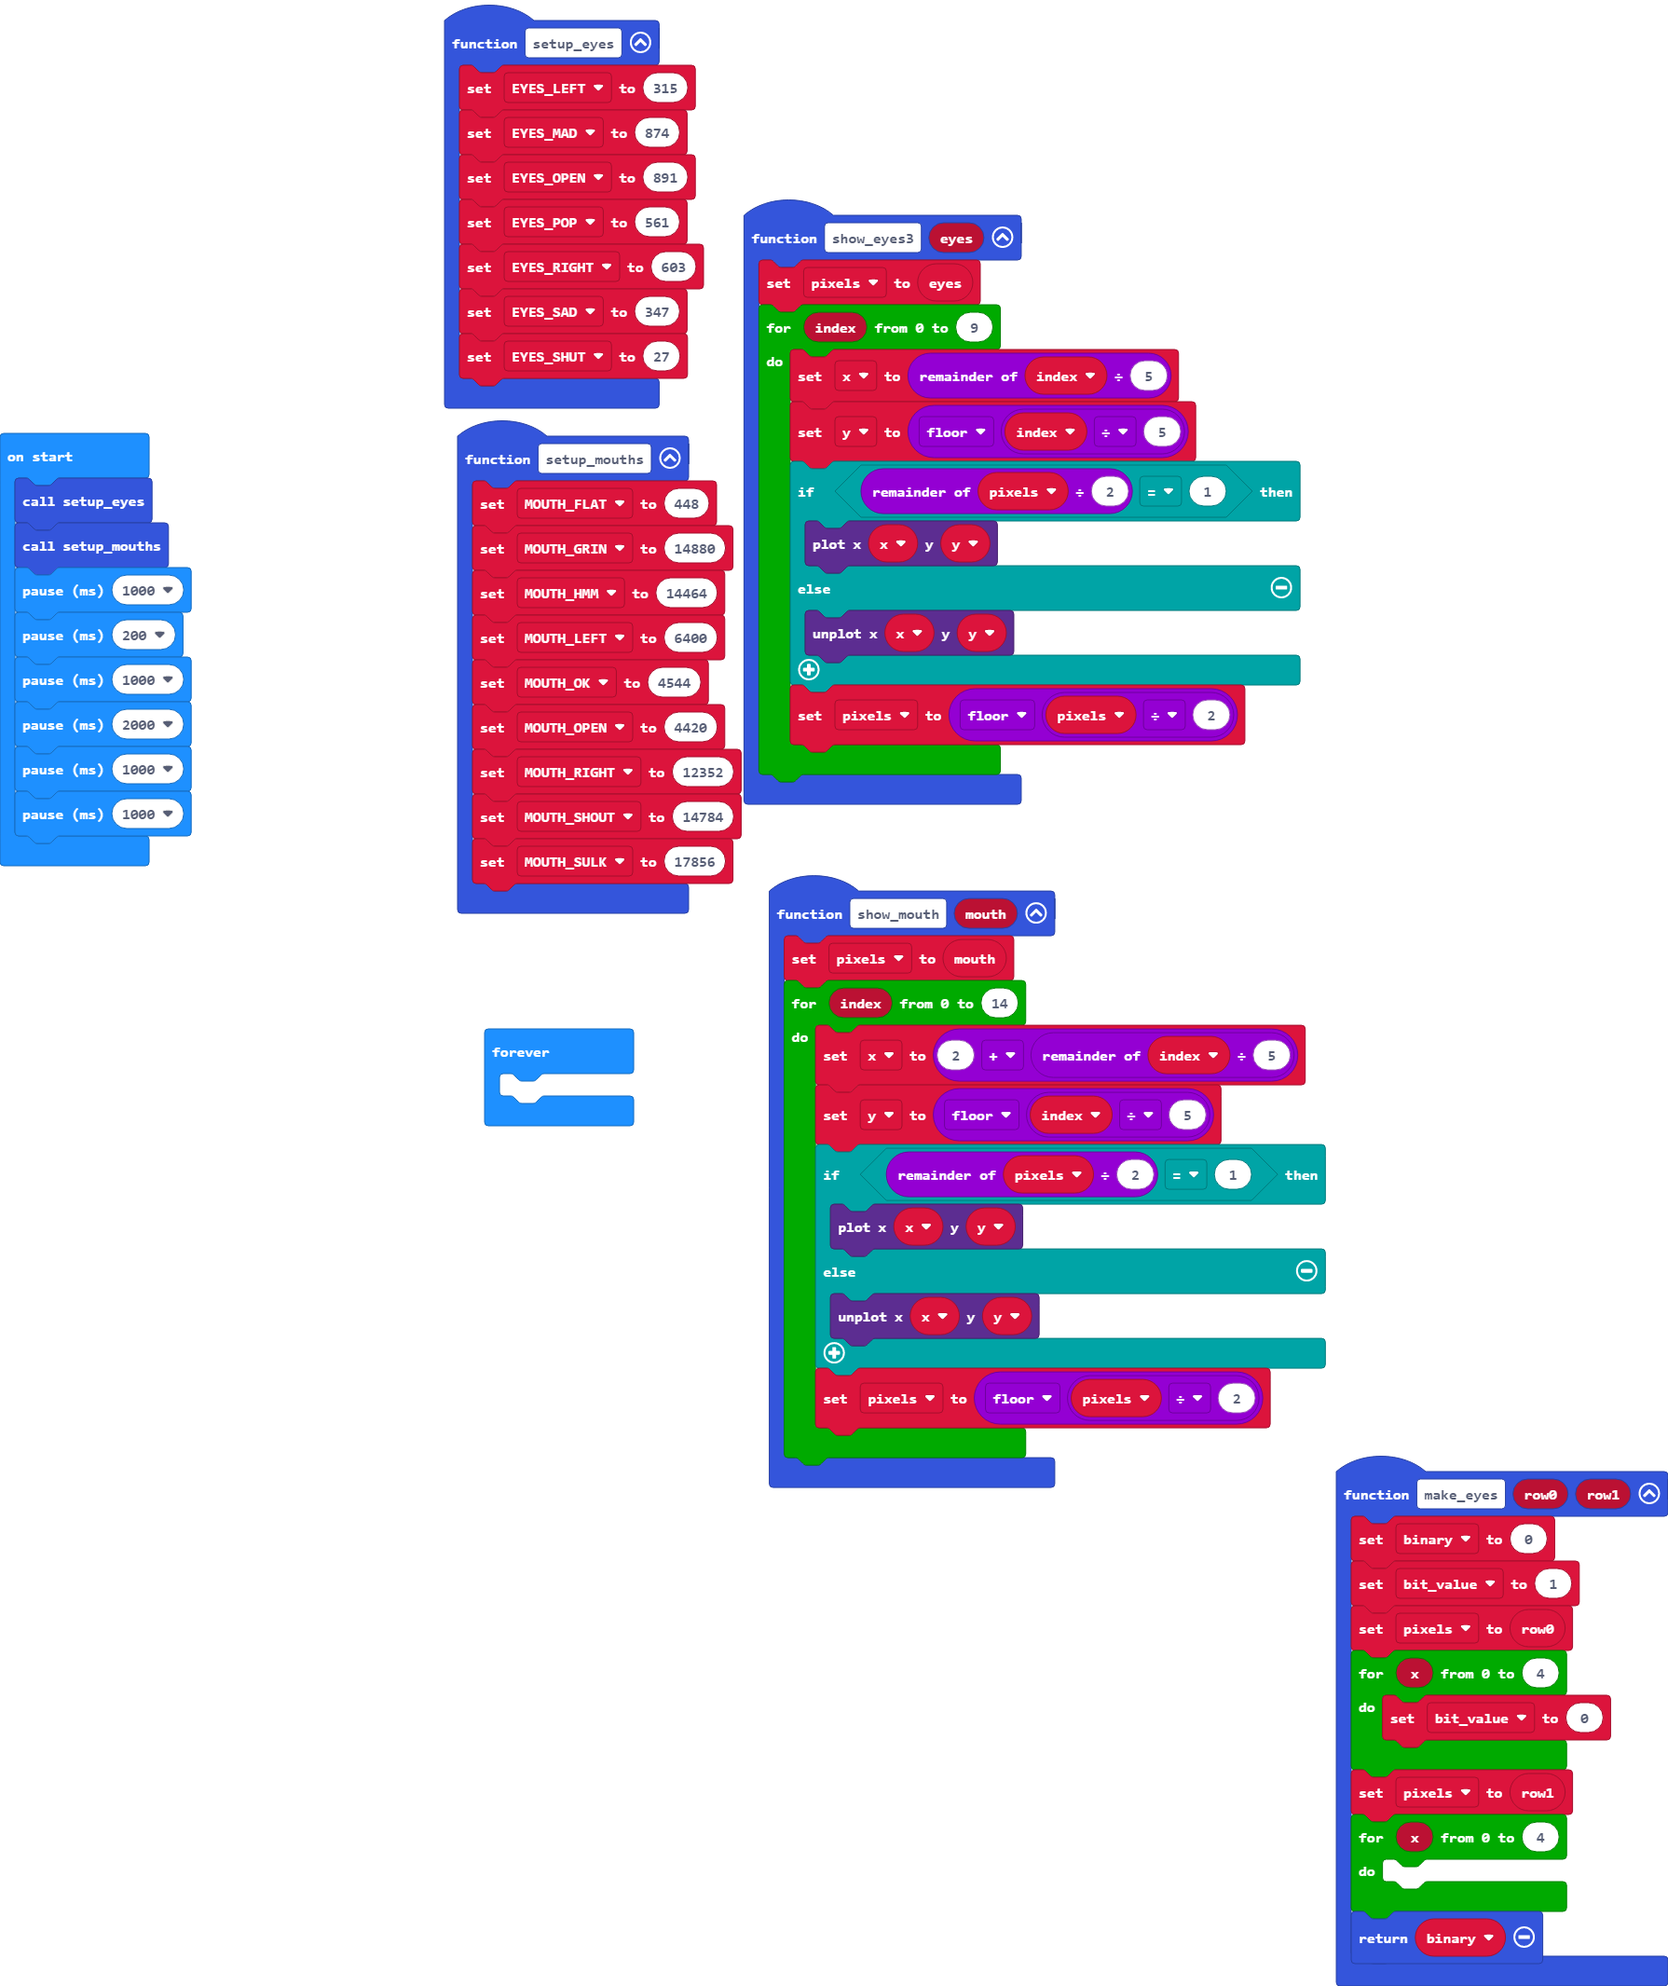
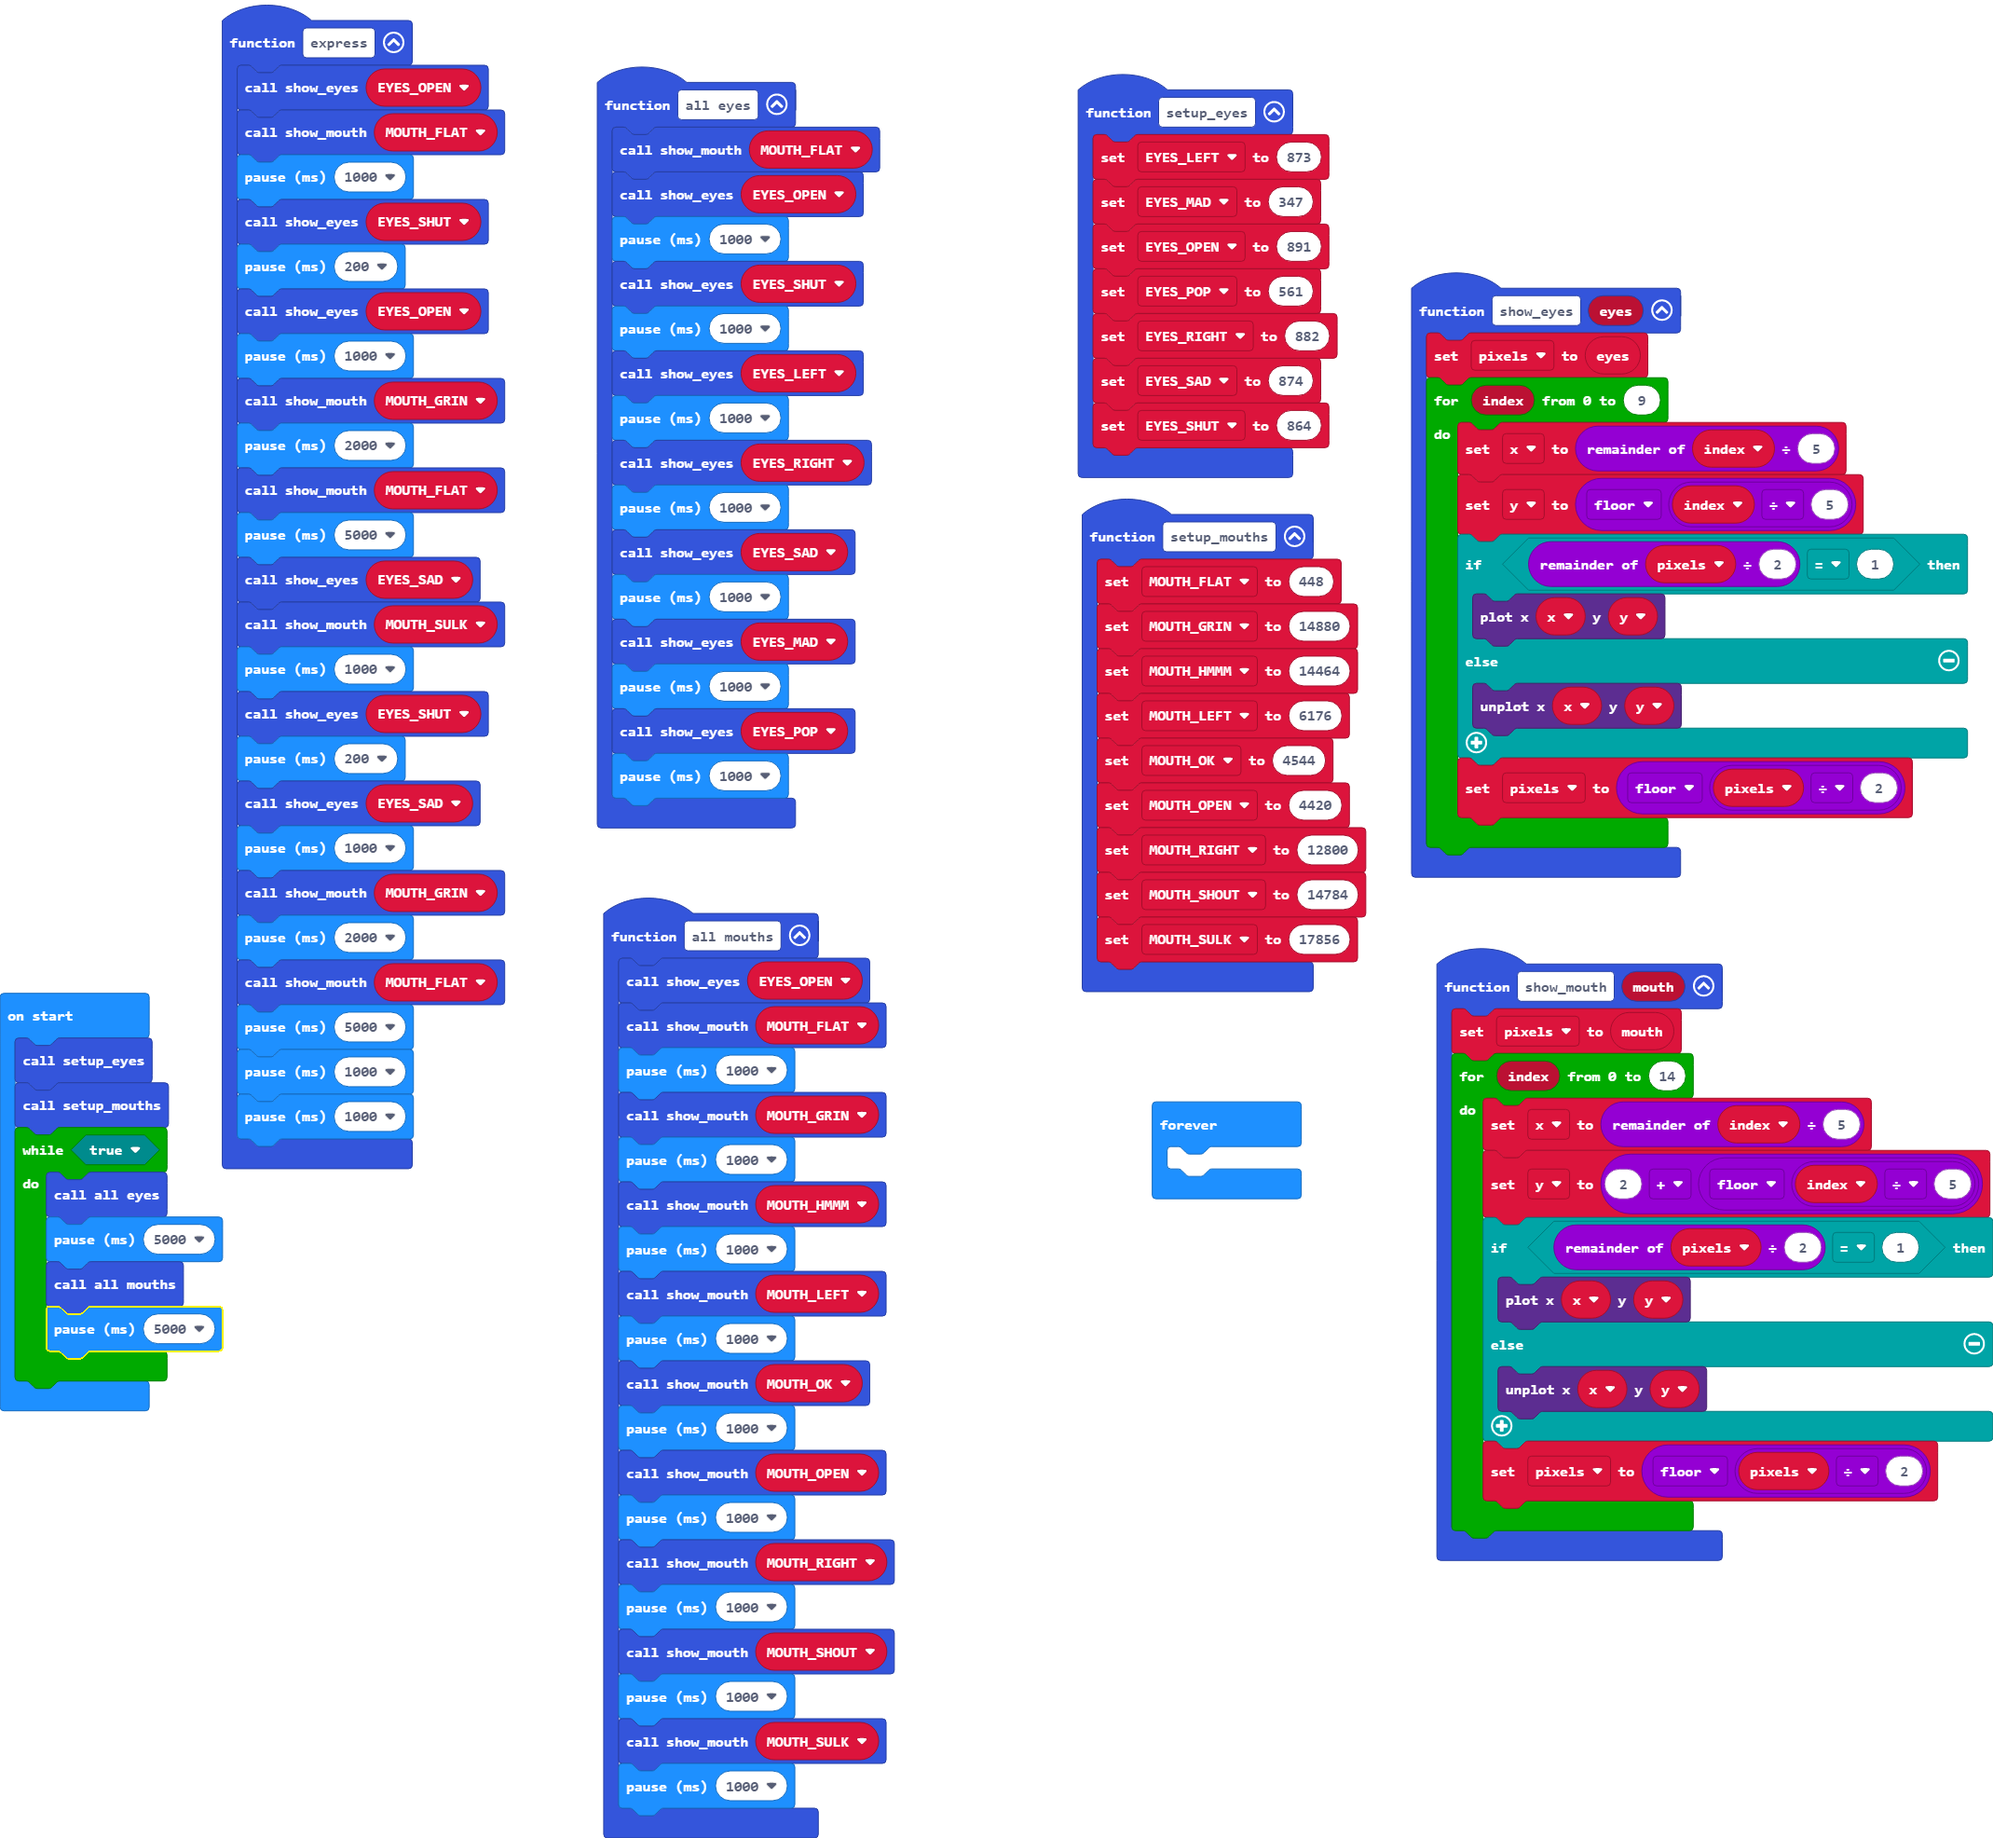
first proper working version

diff --git a/main.ts b/main.ts
@@ -1,50 +1,25 @@
-function setup_eyes () {
-    EYES_LEFT = 315
-    EYES_MAD = 874
-    EYES_OPEN = 891
-    EYES_POP = 561
-    EYES_RIGHT = 603
-    EYES_SAD = 347
-    EYES_SHUT = 27
+function all_mouths () {
+    show_eyes(EYES_OPEN)
+    show_mouth(MOUTH_FLAT)
+    basic.pause(1000)
+    show_mouth(MOUTH_GRIN)
+    basic.pause(1000)
+    show_mouth(MOUTH_HMMM)
+    basic.pause(1000)
+    show_mouth(MOUTH_LEFT)
+    basic.pause(1000)
+    show_mouth(MOUTH_OK)
+    basic.pause(1000)
+    show_mouth(MOUTH_OPEN)
+    basic.pause(1000)
+    show_mouth(MOUTH_RIGHT)
+    basic.pause(1000)
+    show_mouth(MOUTH_SHOUT)
+    basic.pause(1000)
+    show_mouth(MOUTH_SULK)
+    basic.pause(1000)
 }
-function show_mouth (mouth: number) {
-    pixels = mouth
-    for (let index = 0; index <= 14; index++) {
-        x = 2 + index % 5
-        y = Math.floor(index / 5)
-        if (pixels % 2 == 1) {
-            led.plot(x, y)
-        } else {
-            led.unplot(x, y)
-        }
-        pixels = Math.floor(pixels / 2)
-    }
-}
-function setup_mouths () {
-    MOUTH_FLAT = 448
-    MOUTH_GRIN = 14880
-    MOUTH_HMM = 14464
-    MOUTH_LEFT = 6400
-    MOUTH_OK = 4544
-    MOUTH_OPEN = 4420
-    MOUTH_RIGHT = 12352
-    MOUTH_SHOUT = 14784
-    MOUTH_SULK = 17856
-}
-function make_eyes (row0: number, row1: number) {
-    binary = 0
-    bit_value = 1
-    pixels = row0
-    for (let x = 0; x <= 4; x++) {
-        bit_value = 0
-    }
-    pixels = row1
-    for (let x = 0; x <= 4; x++) {
-    	
-    }
-    return binary
-}
-function show_eyes3 (eyes: number) {
+function show_eyes (eyes: number) {
     pixels = eyes
     for (let index = 0; index <= 9; index++) {
         x = index % 5
@@ -57,35 +32,109 @@ function show_eyes3 (eyes: number) {
         pixels = Math.floor(pixels / 2)
     }
 }
-let bit_value = 0
-let binary = 0
+function setup_eyes () {
+    EYES_LEFT = 873
+    EYES_MAD = 347
+    EYES_OPEN = 891
+    EYES_POP = 561
+    EYES_RIGHT = 882
+    EYES_SAD = 874
+    EYES_SHUT = 864
+}
+function show_mouth (mouth: number) {
+    pixels = mouth
+    for (let index = 0; index <= 14; index++) {
+        x = index % 5
+        y = 2 + Math.floor(index / 5)
+        if (pixels % 2 == 1) {
+            led.plot(x, y)
+        } else {
+            led.unplot(x, y)
+        }
+        pixels = Math.floor(pixels / 2)
+    }
+}
+function all_eyes () {
+    show_mouth(MOUTH_FLAT)
+    show_eyes(EYES_OPEN)
+    basic.pause(1000)
+    show_eyes(EYES_SHUT)
+    basic.pause(1000)
+    show_eyes(EYES_LEFT)
+    basic.pause(1000)
+    show_eyes(EYES_RIGHT)
+    basic.pause(1000)
+    show_eyes(EYES_SAD)
+    basic.pause(1000)
+    show_eyes(EYES_MAD)
+    basic.pause(1000)
+    show_eyes(EYES_POP)
+    basic.pause(1000)
+}
+function setup_mouths () {
+    MOUTH_FLAT = 448
+    MOUTH_GRIN = 14880
+    MOUTH_HMMM = 14464
+    MOUTH_LEFT = 6176
+    MOUTH_OK = 4544
+    MOUTH_OPEN = 4420
+    MOUTH_RIGHT = 12800
+    MOUTH_SHOUT = 14784
+    MOUTH_SULK = 17856
+}
+function express () {
+    show_eyes(EYES_OPEN)
+    show_mouth(MOUTH_FLAT)
+    basic.pause(1000)
+    show_eyes(EYES_SHUT)
+    basic.pause(200)
+    show_eyes(EYES_OPEN)
+    basic.pause(1000)
+    show_mouth(MOUTH_GRIN)
+    basic.pause(2000)
+    show_mouth(MOUTH_FLAT)
+    basic.pause(5000)
+    show_eyes(EYES_SAD)
+    show_mouth(MOUTH_SULK)
+    basic.pause(1000)
+    show_eyes(EYES_SHUT)
+    basic.pause(200)
+    show_eyes(EYES_SAD)
+    basic.pause(1000)
+    show_mouth(MOUTH_GRIN)
+    basic.pause(2000)
+    show_mouth(MOUTH_FLAT)
+    basic.pause(5000)
+    basic.pause(1000)
+    basic.pause(1000)
+}
+let EYES_SHUT = 0
+let EYES_SAD = 0
+let EYES_RIGHT = 0
+let EYES_POP = 0
+let EYES_MAD = 0
+let EYES_LEFT = 0
+let y = 0
+let x = 0
+let pixels = 0
 let MOUTH_SULK = 0
 let MOUTH_SHOUT = 0
 let MOUTH_RIGHT = 0
 let MOUTH_OPEN = 0
 let MOUTH_OK = 0
 let MOUTH_LEFT = 0
-let MOUTH_HMM = 0
+let MOUTH_HMMM = 0
 let MOUTH_GRIN = 0
 let MOUTH_FLAT = 0
-let y = 0
-let x = 0
-let pixels = 0
-let EYES_SHUT = 0
-let EYES_SAD = 0
-let EYES_RIGHT = 0
-let EYES_POP = 0
 let EYES_OPEN = 0
-let EYES_MAD = 0
-let EYES_LEFT = 0
 setup_eyes()
 setup_mouths()
-basic.pause(1000)
-basic.pause(200)
-basic.pause(1000)
-basic.pause(2000)
-basic.pause(1000)
-basic.pause(1000)
+while (true) {
+    all_eyes()
+    basic.pause(5000)
+    all_mouths()
+    basic.pause(5000)
+}
 basic.forever(function () {
 	
 })
